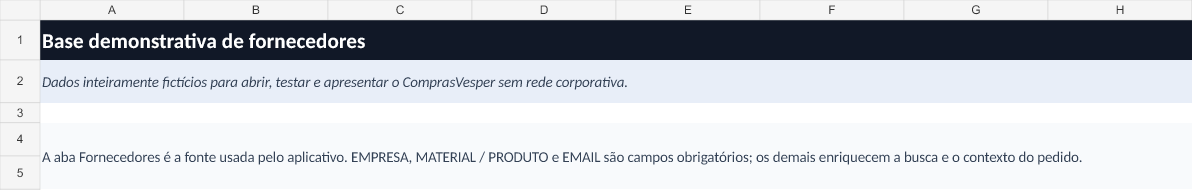
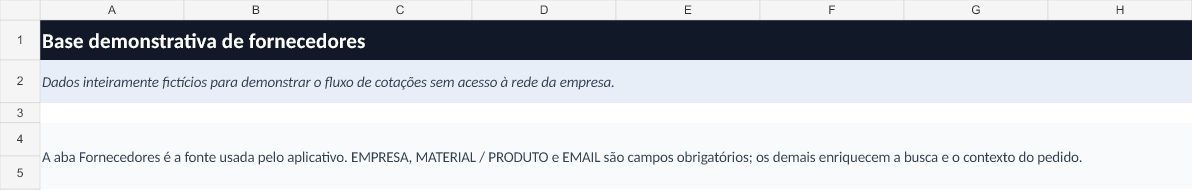
Mostra Compras e Cotações com dados fictícios
Atualiza a apresentação pública, as capturas e a documentação do aplicativo.

Changed region(s): [[0.1862, 0.3947, 0.5277, 0.4737]]

diff --git a/app/core/smtp_handler.py b/app/core/smtp_handler.py
@@ -12,7 +12,7 @@ from email.mime.application import MIMEApplication
 from email.utils import make_msgid
 from pathlib import Path
 from .app_log import setup_logging
-from .config import SMTPProfile, AppConfig
+from .config import SMTPProfile, AppConfig, demo_mode_enabled
 from .dpapi_crypto import decrypt_password, is_available as dpapi_available
 
 logger = setup_logging()
@@ -504,7 +504,7 @@ def send_email_with_profile(
     Sends INDIVIDUAL emails to each recipient (they won't see other recipients)
     Automatically adds BCC from profile
     """
-    if str(os.environ.get("COMPRAS_VESPER_DEMO", "")).strip().lower() in {"1", "true", "yes", "on"}:
+    if demo_mode_enabled():
         return SMTPSendResult(
             False,
             "Modo demonstração: o envio externo está desativado. Configure seu próprio SMTP fora do modo demo.",

diff --git a/tools/capture_demo_ui.py b/tools/capture_demo_ui.py
@@ -1,4 +1,4 @@
-"""Generate portfolio screenshots from the real PySide6 interface in demo mode."""
+"""Capture local demo screenshots for review without overwriting published evidence."""
 
 from __future__ import annotations
 
@@ -6,7 +6,7 @@ import os
 import sys
 from pathlib import Path
 
-os.environ.setdefault("COMPRAS_VESPER_DEMO", "1")
+os.environ.setdefault("COMPRAS_DEMO", "1")
 os.environ.setdefault("QT_QPA_PLATFORM", "offscreen")
 
 PROJECT_ROOT = Path(__file__).resolve().parents[1]
@@ -36,7 +36,7 @@ def _capture(window: MainWindow, destination: Path) -> None:
 
 
 def main() -> int:
-    out = PROJECT_ROOT / "docs" / "assets"
+    out = PROJECT_ROOT / "artifacts" / "demo-screenshots"
     app = QApplication.instance() or QApplication(sys.argv[:1])
     app.setApplicationName("ComprasVesper")
     init_ui_scale(app)

diff --git a/app/core/config.py b/app/core/config.py
@@ -30,7 +30,8 @@ CANONICAL_SMTP_PROFILE_LABELS: Dict[str, str] = {
 
 
 def demo_mode_enabled() -> bool:
-    return str(os.environ.get("COMPRAS_VESPER_DEMO", "")).strip().lower() in {"1", "true", "yes", "on"}
+    flags = (os.environ.get("COMPRAS_DEMO", ""), os.environ.get("COMPRAS_VESPER_DEMO", ""))
+    return any(str(value).strip().lower() in {"1", "true", "yes", "on"} for value in flags)
 
 
 def demo_supplier_workbook() -> Path:

diff --git a/tests/test_demo_mode.py b/tests/test_demo_mode.py
@@ -4,7 +4,7 @@ from app.core.xlsx_loader import load_suppliers_from_xlsx
 
 
 def test_demo_mode_is_local_and_network_safe(monkeypatch):
-    monkeypatch.setenv("COMPRAS_VESPER_DEMO", "1")
+    monkeypatch.setenv("COMPRAS_DEMO", "1")
     config = AppConfig.load()
     assert config.xlsx_sources == [str(demo_supplier_workbook())]
     assert config.nas_master_path == ""

diff --git a/README.md b/README.md
@@ -1,23 +1,22 @@
 <div align="center">
 
-# ComprasVesper — cockpit desktop de cotações
+# Compras e Cotações — pedidos, fornecedores e respostas
 
-**Aplicação interna em Python + PySide6 para fornecedores, cotações, ordens de compra e acompanhamento de respostas em um único fluxo.**
+**Desenvolvi uma aplicação desktop para reunir pedidos de compra, cotações de fornecedores e acompanhamento das respostas em um só lugar.**
 
 [![Validação](https://github.com/Mayconxzdev/ComprasProducao/actions/workflows/validate.yml/badge.svg)](https://github.com/Mayconxzdev/ComprasProducao/actions/workflows/validate.yml)
 ![Python](https://img.shields.io/badge/Python-3.12-3776AB?logo=python&logoColor=white)
 ![PySide6](https://img.shields.io/badge/Desktop-PySide6-41CD52?logo=qt&logoColor=white)
 ![SQLite](https://img.shields.io/badge/Queue-SQLite%20WAL-003B57?logo=sqlite&logoColor=white)
 
-[Case no portfólio](https://mayconxzdev.github.io/cases/compras-vesper/) · [Arquitetura](docs/architecture.md) · [Segurança](docs/security.md) · [Testes](docs/testing.md)
+[Case no portfólio](https://mayconxzdev.github.io/cases/compras-e-cotacoes/) · [Arquitetura](docs/architecture.md) · [Segurança](docs/security.md) · [Testes](docs/testing.md)
 
-<img src="docs/assets/ui-dashboard-real.png" alt="Tela inicial demonstrativa do ComprasVesper com os tipos de cotação" width="100%">
 
 </div>
 
-Desenvolvi este aplicativo em **Python + PySide6** para organizar a etapa inicial de compras: localizar fornecedores, montar pedidos de cotação, enviar ordens de compra e acompanhar respostas sem depender de um processo manual espalhado entre planilhas e e-mails.
+A solução organiza uma rotina que antes dependia de planilhas e e-mails separados: localizar fornecedores, preparar pedidos de cotação, enviar ordens de compra e acompanhar respostas.
 
-> Esta publicação é uma versão demonstrativa e reproduzível da aplicação 4.8.0. Catálogos, empresas, endereços, caixas de e-mail, assinaturas e caminhos corporativos foram substituídos por dados fictícios. No modo demo, envio SMTP, leitura IMAP e sincronização de rede ficam bloqueados.
+> Esta é uma edição demonstrativa e reproduzível. Empresas, fornecedores, contatos, caixas de e-mail, assinaturas e caminhos foram substituídos por dados fictícios. No modo demonstração, envio de e-mail, leitura de respostas e sincronização de rede ficam bloqueados.
 
 ## Problema que resolvi
 
@@ -41,27 +40,23 @@ Histórico + acompanhamento IMAP de respostas + próxima ação
 
 ## Uso atual
 
-A versão interna é utilizada por **três pessoas** sempre que existe necessidade de cotação com fornecedores. A edição pública mantém a interface, a arquitetura e as principais regras, mas usa fornecedores e dados fictícios.
+A versão interna é utilizada pela equipe sempre que surge a necessidade de cotar com fornecedores. A edição pública mantém a interface, a arquitetura e as principais regras, mas usa fornecedores e dados fictícios.
 
 ## Interface
 
-### Escolha do fluxo
+As telas abaixo mostram a aplicação com dados demonstrativos: uma visão inicial, a preparação de uma cotação de frete e o acompanhamento de respostas.
 
-![Tela inicial com os quatro tipos de solicitação](docs/assets/ui-dashboard-real.png)
+### Pedidos de compra
+
+![Tela inicial do aplicativo Compras com opções para cotações e ordens de compra](docs/assets/ui-dashboard-real.png)
 
 ### Cotação de frete
 
-![Composer de frete com dados, anexos e transportadoras](docs/assets/ui-freight-real.png)
-
-### Cotação preenchida
-
-A tela abaixo foi gerada pela própria aplicação depois de preencher os dados da carga, anexar um arquivo fictício e selecionar transportadoras.
-
-![Frete preenchido, anexo incluído e transportadoras selecionadas](docs/assets/ui-freight-interaction-real.png)
+![Formulário demonstrativo para reunir carga, anexos e destinatários da cotação](docs/assets/ui-freight-real.png)
 
 ### Acompanhamento de respostas
 
-![Cockpit Acompanhar com painel de resposta e dados comerciais](docs/assets/ui-tracking-real.png)
+![Tela demonstrativa para consultar respostas recebidas e pendências de uma cotação](docs/assets/ui-tracking-real.png)
 
 ## Fluxos principais
 
@@ -102,7 +97,7 @@ Pré-requisitos: Windows e Python 3.12+ ou `uv`.
 uv venv .venv --python 3.12
 uv pip install -r requirements-dev.txt --python .venv\Scripts\python.exe
 
-$env:COMPRAS_VESPER_DEMO = "1"
+$env:COMPRAS_DEMO = "1"
 $env:APPDATA = "$PWD\.demo-runtime"
 .\.venv\Scripts\python.exe -m app.main
 ```
@@ -112,7 +107,7 @@ O catálogo usado pela demonstração é [`examples/fornecedores-demo.xlsx`](exa
 ## Testes
 
 ```powershell
-$env:COMPRAS_VESPER_DEMO = "1"
+$env:COMPRAS_DEMO = "1"
 $env:APPDATA = "$PWD\.demo-runtime"
 $env:QT_QPA_PLATFORM = "offscreen"
 .\.venv\Scripts\python.exe -m compileall -q app
@@ -120,7 +115,7 @@ $env:QT_QPA_PLATFORM = "offscreen"
 .\.venv\Scripts\python.exe -m app.tools.smoke_core
 ```
 
-Na revisão da versão pública foram executados **48 testes**, além da compilação dos módulos e do smoke do núcleo. O GitHub Actions repete a checagem em Windows.
+A suíte cobre contratos da interface, busca de fornecedores, acompanhamento de respostas e os limites do modo demonstração. O GitHub Actions executa essas verificações em Windows.
 
 ## Estado e limites
 

diff --git a/docs/security.md b/docs/security.md
@@ -11,7 +11,7 @@ Esta é uma cópia pública do projeto. Nenhuma configuração de empresa foi re
 
 ## Garantias do modo demo
 
-Com `COMPRAS_VESPER_DEMO=1`, a aplicação carrega somente `examples/fornecedores-demo.xlsx`, ignora configuração de rede, desativa IMAP e retorna falha controlada para qualquer tentativa de SMTP. O mecanismo é coberto pelos testes.
+Com `COMPRAS_DEMO=1`, a aplicação carrega somente `examples/fornecedores-demo.xlsx`, ignora configuração de rede, desativa IMAP e retorna falha controlada para qualquer tentativa de SMTP. O mecanismo é coberto pelos testes.
 
 ## Uso fora da demonstração
 

diff --git a/docs/architecture.md b/docs/architecture.md
@@ -1,6 +1,6 @@
 # Arquitetura da aplicação
 
-O ComprasVesper é um aplicativo Windows local-first. A interface foi projetada para que uma pessoa de compras consiga abrir uma nova solicitação sem navegar por telas administrativas.
+A aplicação é um sistema Windows local-first para organizar pedidos, fornecedores e cotações. A interface foi projetada para que uma pessoa de compras consiga abrir uma nova solicitação sem navegar por telas administrativas.
 
 ## Componentes
 

diff --git a/docs/testing.md b/docs/testing.md
@@ -3,7 +3,7 @@
 ```powershell
 uv venv .venv --python 3.12
 uv pip install -r requirements-dev.txt --python .venv\Scripts\python.exe
-$env:COMPRAS_VESPER_DEMO = "1"
+$env:COMPRAS_DEMO = "1"
 $env:APPDATA = "$PWD\.demo-runtime"
 $env:QT_QPA_PLATFORM = "offscreen"
 .\.venv\Scripts\python.exe -m compileall -q app
